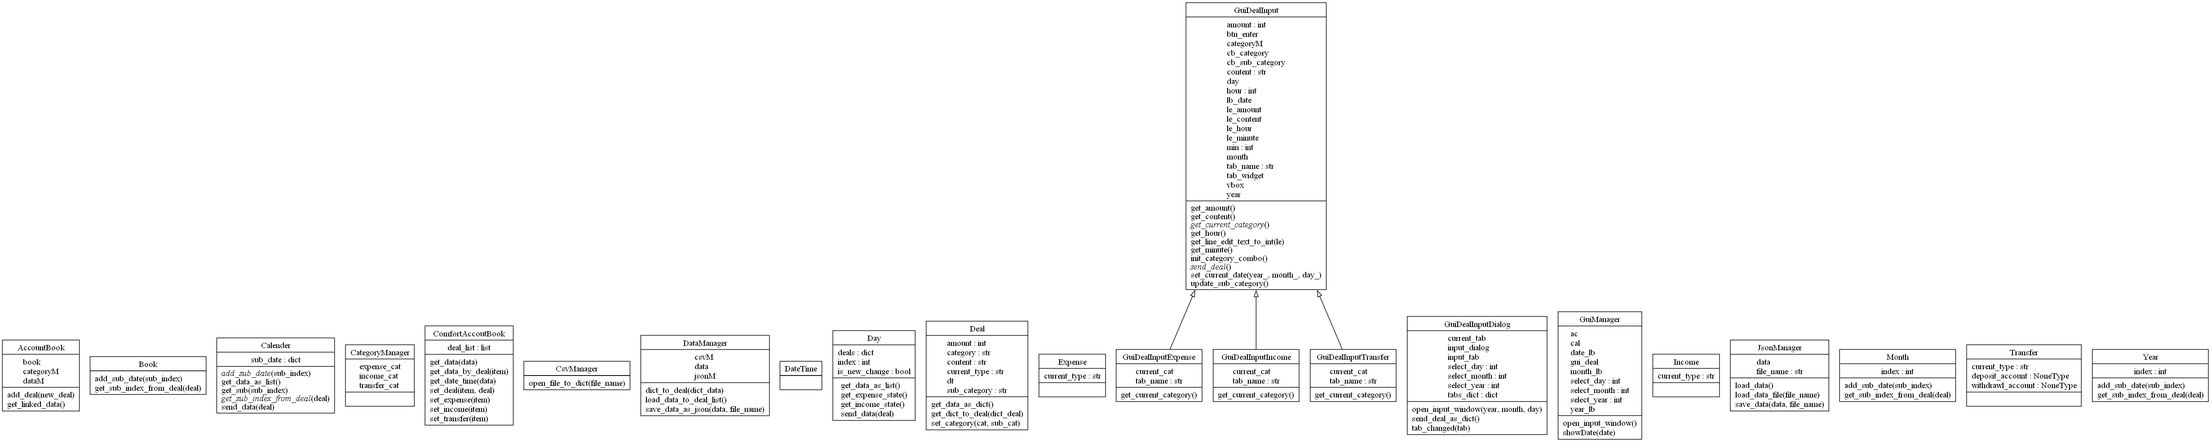
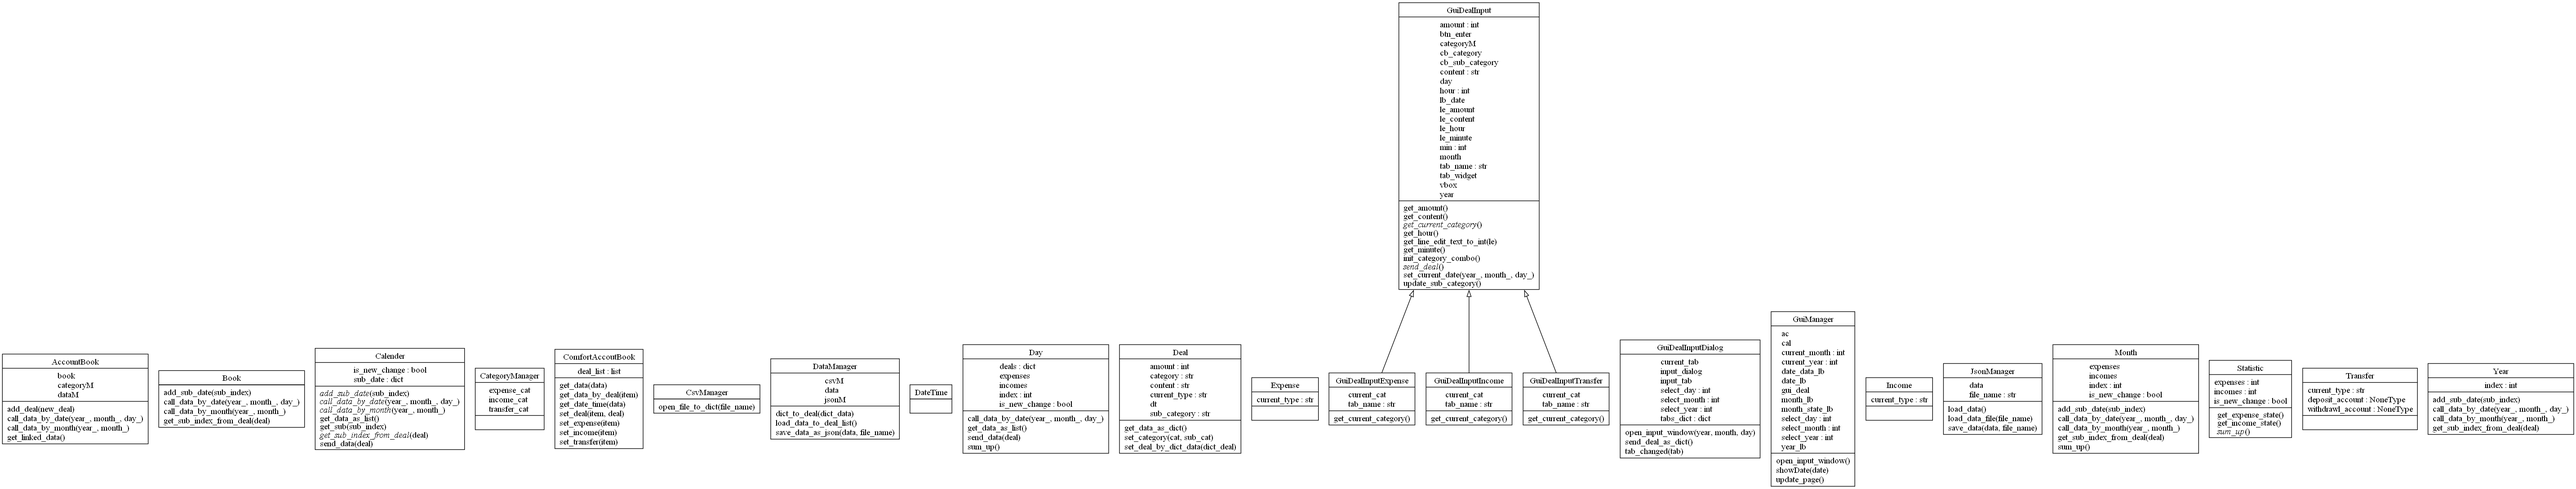
Created Statistic class and added it to Calender class.

diff --git a/Day.py b/Day.py
@@ -10,10 +10,6 @@ class Day(Calender):
                       "Income": [],
                       "Transfer": []} #deal의 종류에 따라 추가될 것이다
 
-        self.is_new_change = False #새로운 값이 들어옴(통계 새로 낸다->sum_up 함수 호출한다)
-        self.__expenses = 0 #지출 총합
-        self.__incomes = 0 #수입 총합
-
     #하위 오브젝트 없어서 send 끝나고 걍 저장함
     def send_data(self,deal): 
         deal_type = deal.current_type #현재 deal의 종류를 가져온다(income,expense...)
@@ -28,14 +24,6 @@ class Day(Calender):
             for deal in self.deals[key]: #각각의 리스트에 deal 저장
                 result.append(deal.get_data_as_dict())
         return result
-
-    #새로운 수정사항이 있는지 확인하고 통계 정보 주는 함수
-    def get_expense_state(self):
-        if self.is_new_change: self.__sum_up()
-        return self.__expenses
-    def get_income_state(self):
-        if self.is_new_change: self.__sum_up()
-        return self.__incomes
     
     #요청한 날짜에 맞는 데이터 제공(str로 만들어서 줌)
     def call_data_by_date(self,year_,month_,day_):
@@ -49,12 +37,12 @@ class Day(Calender):
         return str_result
 
     #수정할 값이 생겼을 때만 호출
-    def __sum_up(self): #통계 낸다는 뜻임
+    def sum_up(self): #통계 낸다는 뜻임
         #결국 그냥 deal 타입을 가져오는구나...ㅅㅂ..
         for expense in self.deals["Expense"]:
-            self.__expenses -= expense.amount
+            self.expenses -= expense.amount
         for income in self.deals["Income"]:
-            self.__incomes += income.amount
+            self.incomes += income.amount
         #TODO: Transfer는 안 해도 돼?
         self.is_new_change = False #통계 다 냈으니까 더이상 또 호출할 필요 없음
     

diff --git a/Month.py b/Month.py
@@ -4,20 +4,9 @@ from MoneyHelper import *
 
 class Month(Calender):
     
-    __expenses = 0 #지출 총합
-    __incomes = 0 #수입 총합
-    
     def __init__(self,index:int) -> None:
         self.index = index #현재 월
         super().__init__()
-
-    #새로운 수정사항이 있는지 확인하고 통계 정보 주는 함수
-    def get_expense_state(self):
-        if self.is_new_change: self.__sum_up()
-        return self.__expenses
-    def get_income_state(self):
-        if self.is_new_change: self.__sum_up()
-        return self.__incomes
     
     def add_sub_date(self,sub_index):
         self.sub_date[sub_index] = Day(sub_index)
@@ -35,9 +24,9 @@ class Month(Calender):
     def get_sub_index_from_deal(self, deal):
         return deal.dt.day
     
-    def __sum_up(self): #통계 낸다는 뜻임
+    def sum_up(self): #통계 낸다는 뜻임
         for key in self.sub_date:
-            self.__expenses += self.sub_date[key].get_expense_state()
-            self.__incomes += self.sub_date[key].get_income_state()
+            self.expenses += self.sub_date[key].get_expense_state()
+            self.incomes += self.sub_date[key].get_income_state()
         self.is_new_change = False #통계 다 냈으니까 더이상 또 호출할 필요 없음
     

diff --git a/Calender.py b/Calender.py
@@ -1,8 +1,7 @@
-
+from Statistic import Statistic
 #Book, year,month 에 상속되어서 멤버 리스트의 하위 오브젝트를 찾아주는 가상 클래스
 #모든 서브 데이터에는 특정 index가 있는 걸로 친다
-class Calender():
-    is_new_change = False #새로운 값이 들어옴(통계 새로 낸다->sum_up 함수 호출한다)
+class Calender(Statistic):
 
     def __init__(self) -> None:
         self.sub_date = {}
@@ -11,8 +10,7 @@ class Calender():
     def add_sub_date(self,sub_index): pass
     def get_sub_index_from_deal(self, deal): pass
     
-    def get_sub(self,sub_index):
-        return self.sub_date[sub_index]
+    def get_sub(self,sub_index): return self.sub_date[sub_index]
     
     def call_data_by_date(self,year_,month_,day_): pass
     def call_data_by_month(self, year_, month_): pass
@@ -32,7 +30,3 @@ class Calender():
             temp_list = self.sub_date[key].get_data_as_list()
             result = result + temp_list #date 별로 받은 리스트 다 풀어서 리스트 하나로 만든다
         return result
-        # result = {}
-        # for key in self.sub_date.keys(): 
-        #     result[key] = self.sub_date[key].get_data_as_dict()
-        # return result

diff --git a/GuiManager.py b/GuiManager.py
@@ -3,7 +3,6 @@ from GuiDealInputDialog import GuiDealInputDialog
 from PyQt5 import QtGui
 from PyQt5.QtCore import Qt, QDate
 from PyQt5.QtGui import QIcon
-import sys
 
 from AccountBook import AccountBook
 
@@ -95,10 +94,10 @@ class GuiManager(QWidget):
         date_box = create_hbox([self.year_lb,self.month_lb,self.date_lb])
         return create_vbox([self.month_state_lb,date_box,self.date_data_lb])
     
-app = QApplication(sys.argv)
-win = GuiManager()
-win.show()
-app.exec_()
+# app = QApplication(sys.argv)
+# win = GuiManager()
+# win.show()
+# app.exec_()
 
 
 #캘린더 참고: https://wikidocs.net/38036

diff --git a/Statistic.py b/Statistic.py
@@ -1,0 +1,17 @@
+
+class Statistic():
+    is_new_change = False #새로운 값이 들어옴(통계 새로 낸다->sum_up 함수 호출한다)
+    expenses = 0 #지출 총합 - 그대로 값 가져가기 금지
+    incomes = 0 #수입 총합
+
+
+    def sum_up(self): pass
+    #새로운 수정사항이 있는지 확인하고 통계 정보 주는 함수
+    def get_expense_state(self):
+        if self.is_new_change: self.sum_up()
+        return self.expenses
+    def get_income_state(self):
+        if self.is_new_change: self.sum_up()
+        return self.incomes
+    
+    

diff --git a/main.py b/main.py
@@ -1,1 +1,10 @@
+from GuiManager import GuiManager
+from PyQt5.QtWidgets import QApplication
+import sys
+
+app = QApplication(sys.argv)
+win = GuiManager()
+win.show()
+app.exec_()
+
 #pyreverse -o png ./
